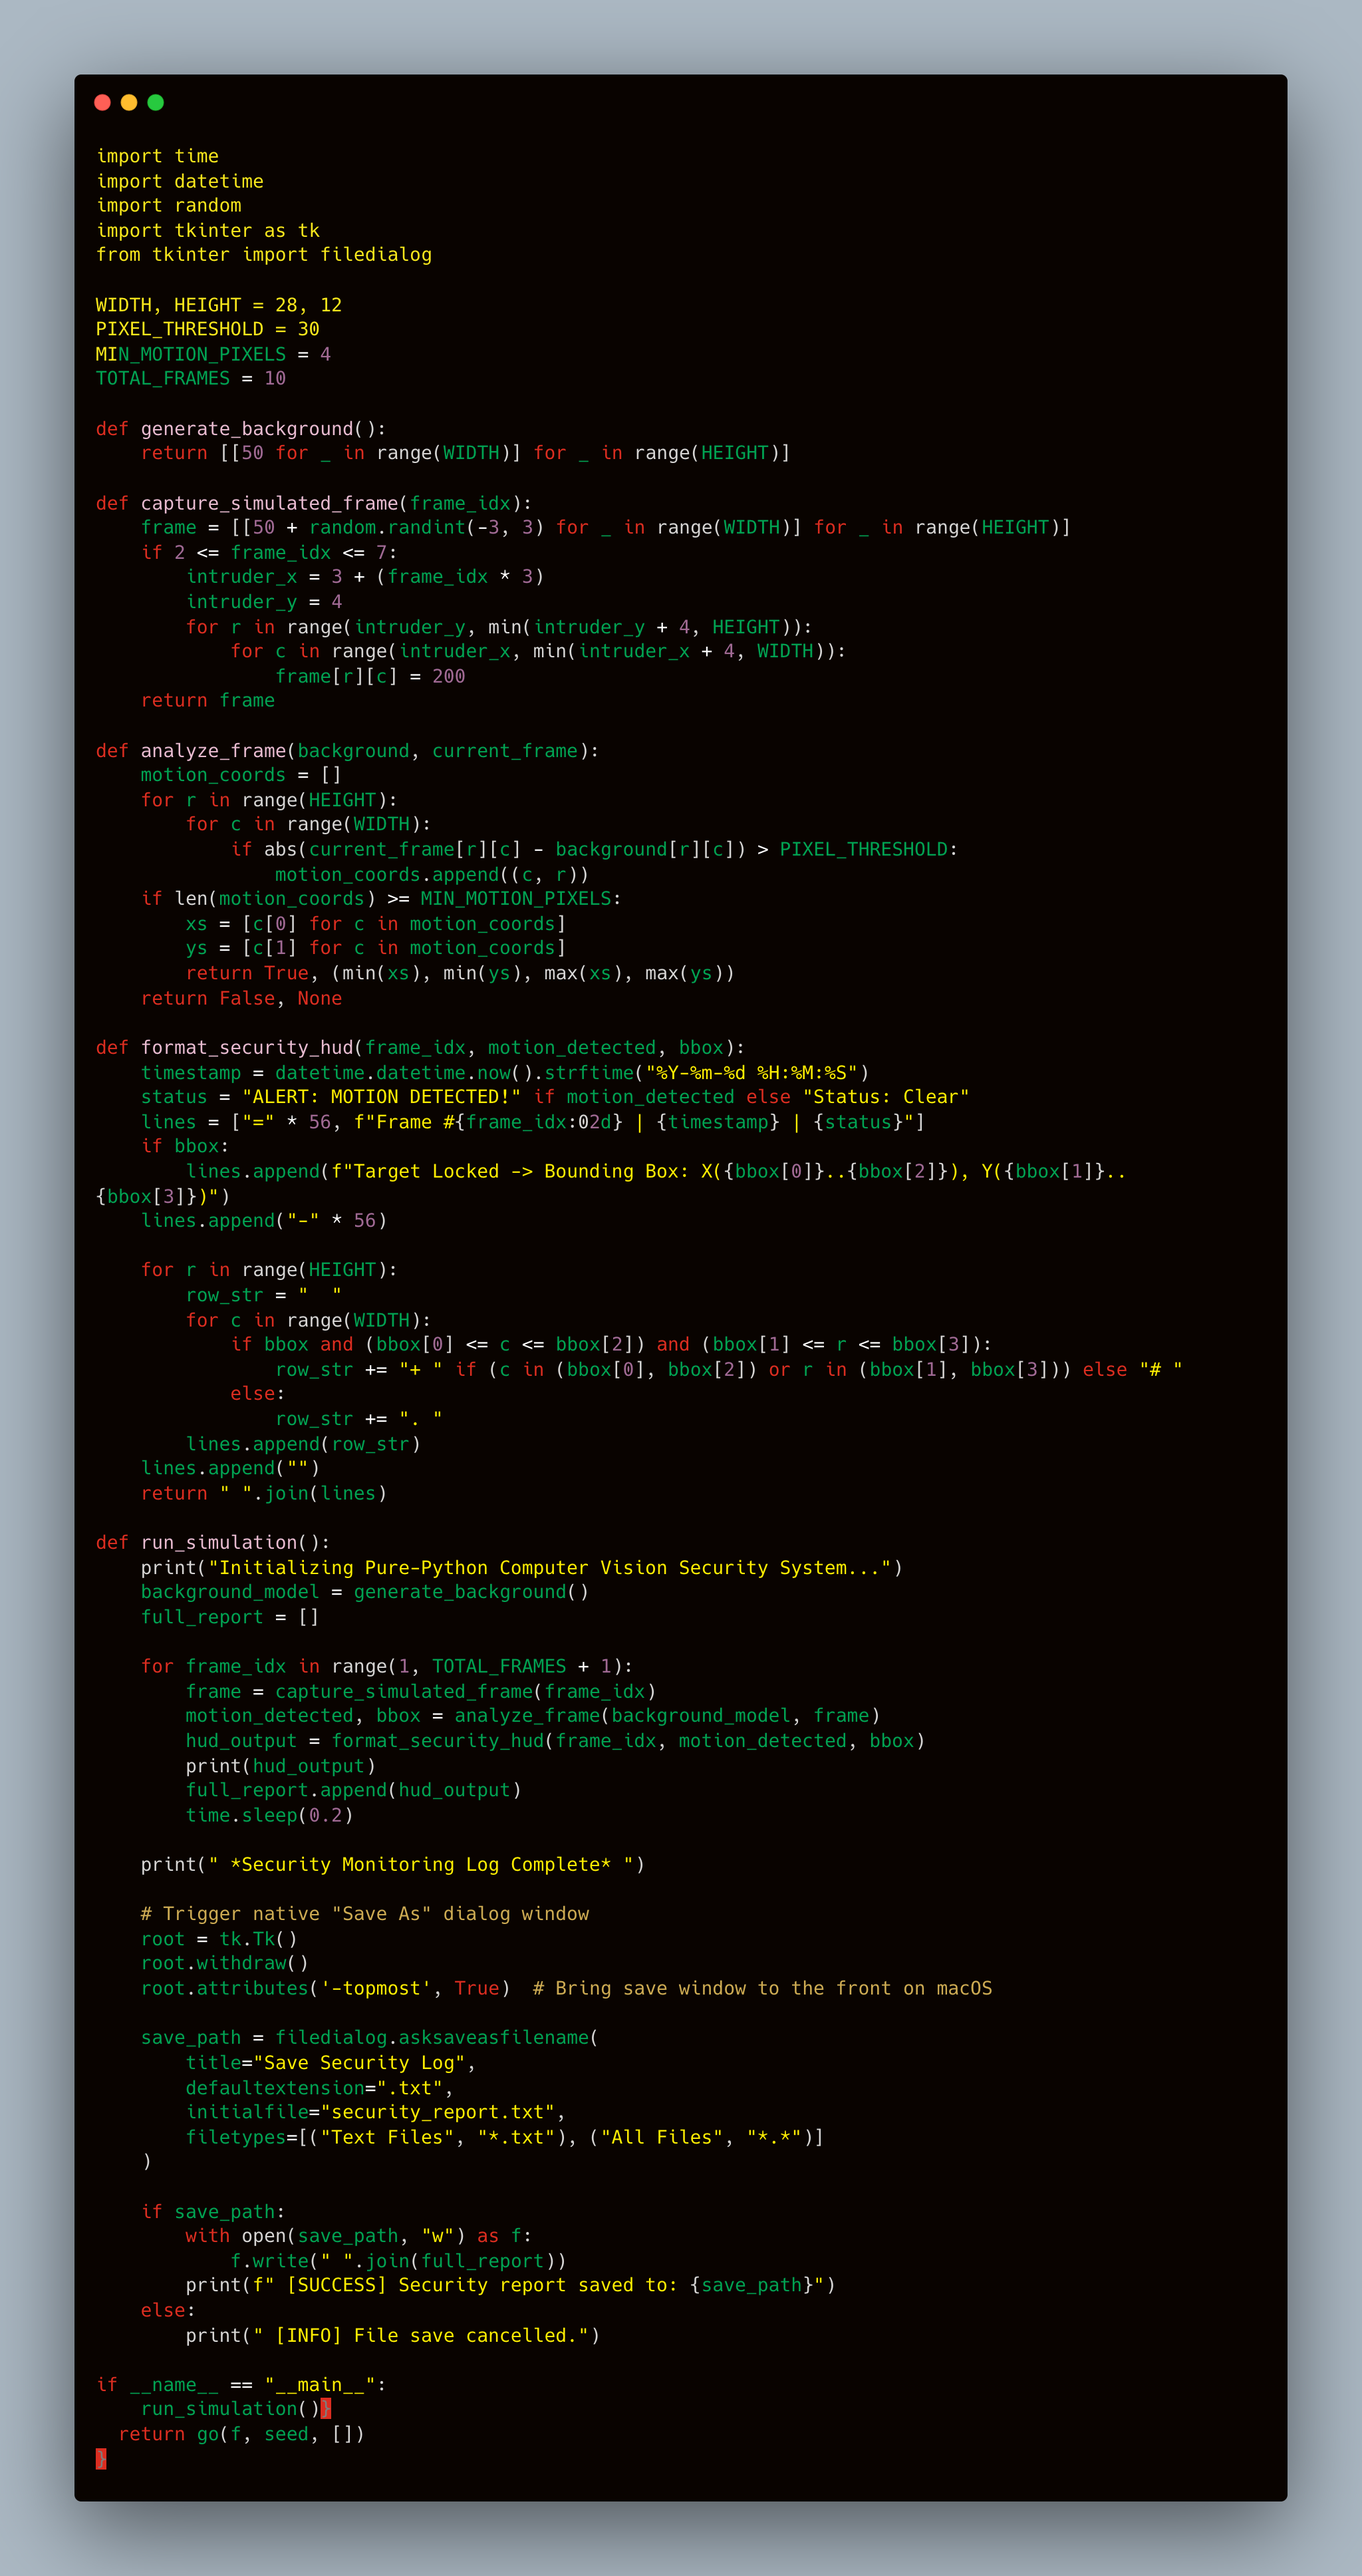
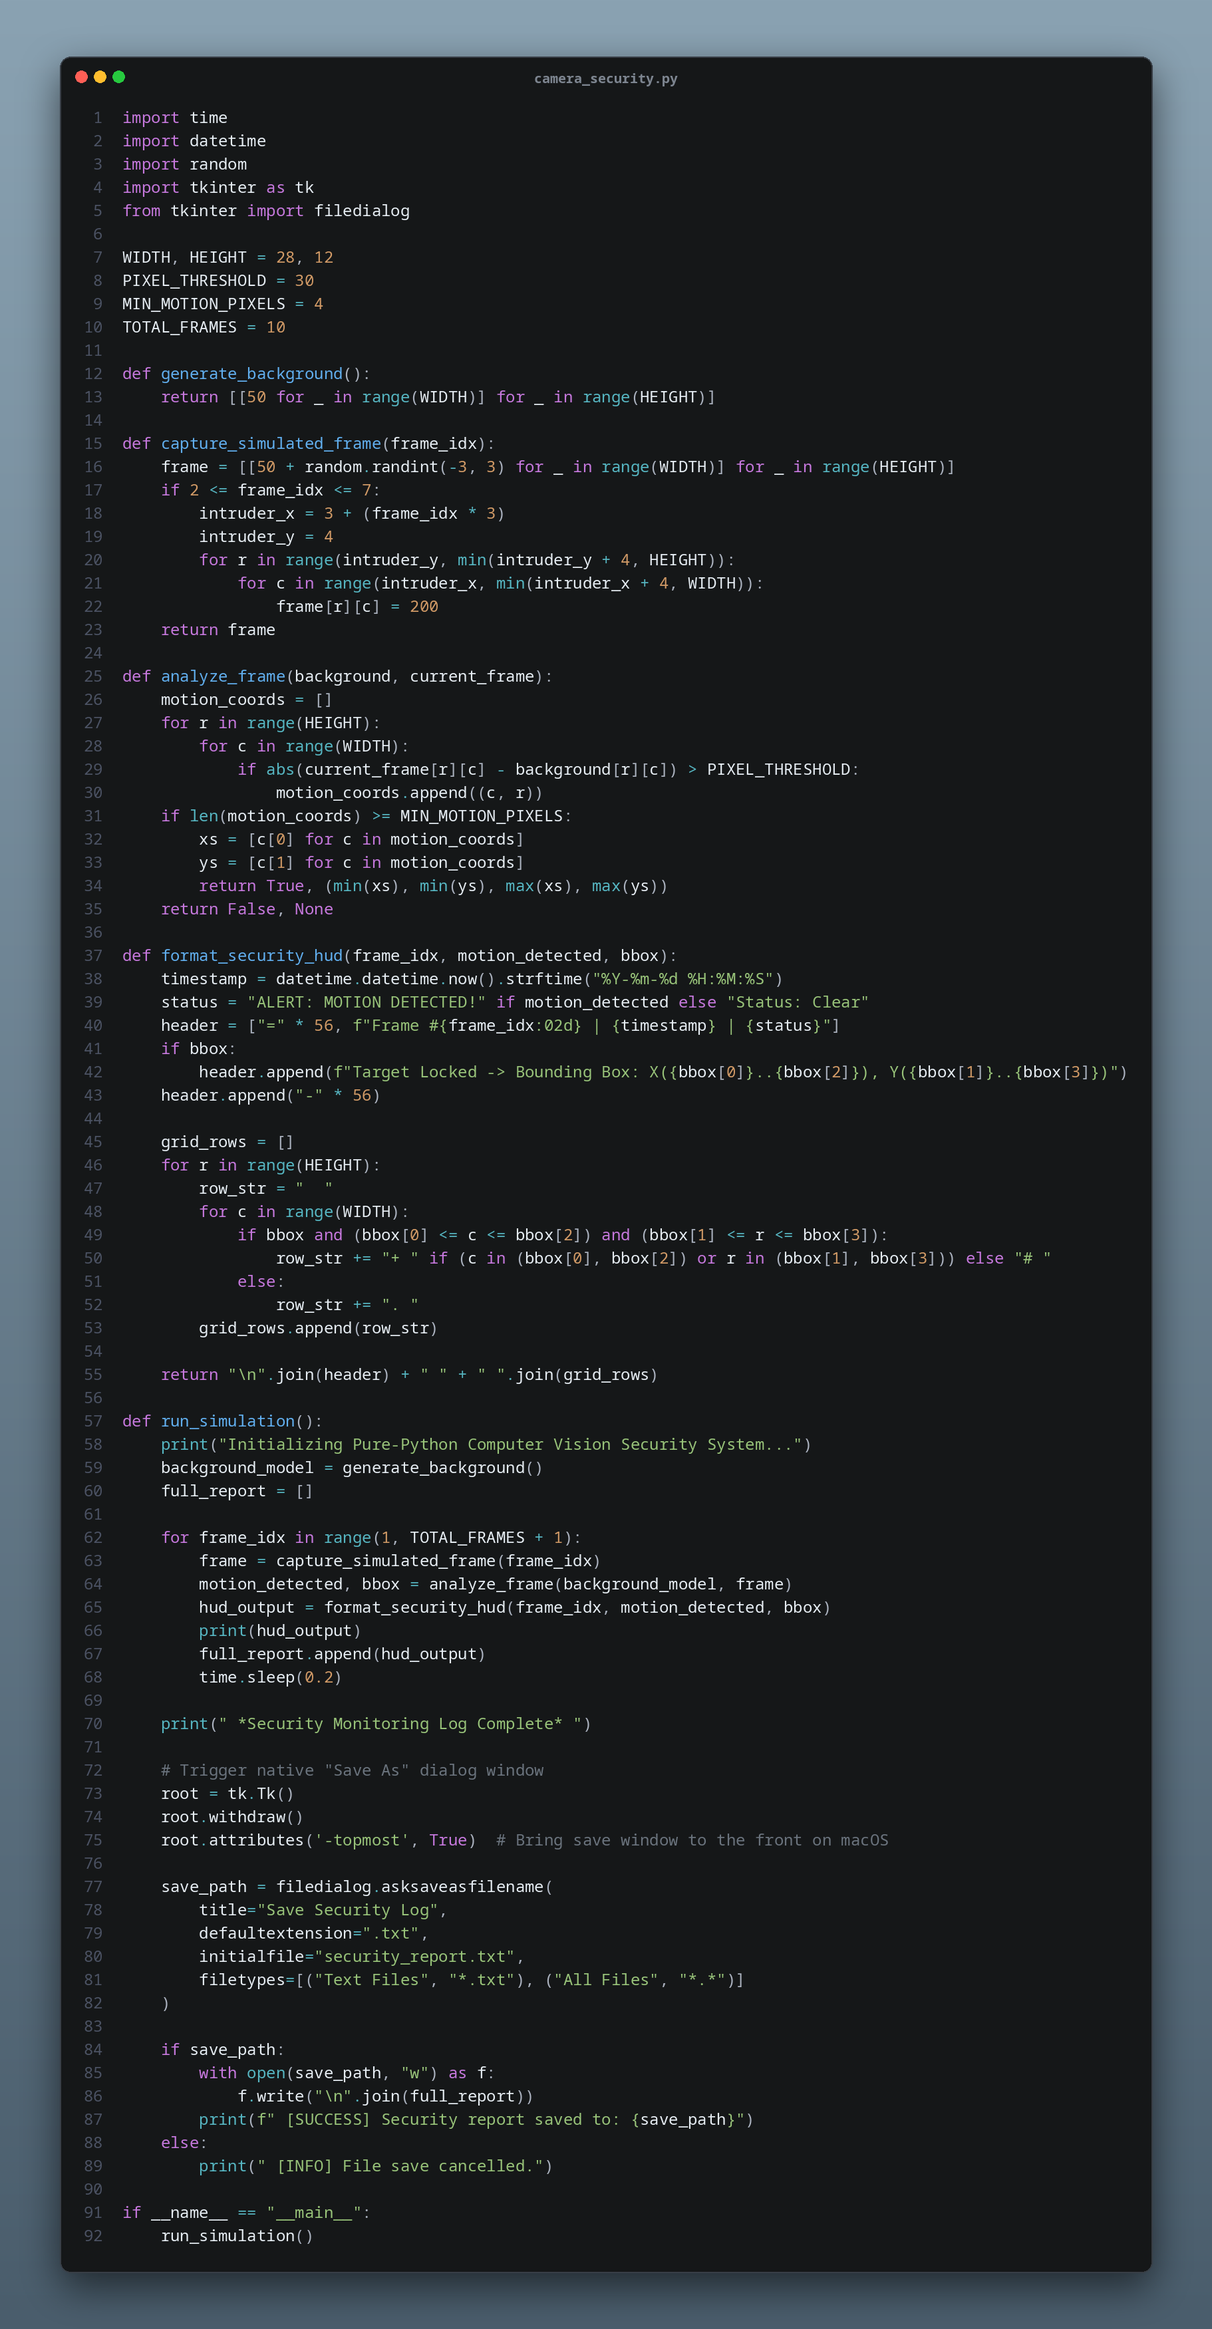
Fix HUD formatting and update report & carbon image
- Separated frame headers with newlines in format_security_hud()
- Updated file output to separate frames by newline
- Regenerated camera_security_report.txt and carbon.png

diff --git a/camera security/camera_security.py b/camera security/camera_security.py
@@ -37,11 +37,12 @@ def analyze_frame(background, current_frame):
 def format_security_hud(frame_idx, motion_detected, bbox):
     timestamp = datetime.datetime.now().strftime("%Y-%m-%d %H:%M:%S")
     status = "ALERT: MOTION DETECTED!" if motion_detected else "Status: Clear"
-    lines = ["=" * 56, f"Frame #{frame_idx:02d} | {timestamp} | {status}"]
+    header = ["=" * 56, f"Frame #{frame_idx:02d} | {timestamp} | {status}"]
     if bbox:
-        lines.append(f"Target Locked -> Bounding Box: X({bbox[0]}..{bbox[2]}), Y({bbox[1]}..{bbox[3]})")
-    lines.append("-" * 56)
-    
+        header.append(f"Target Locked -> Bounding Box: X({bbox[0]}..{bbox[2]}), Y({bbox[1]}..{bbox[3]})")
+    header.append("-" * 56)
+
+    grid_rows = []
     for r in range(HEIGHT):
         row_str = "  "
         for c in range(WIDTH):
@@ -49,15 +50,15 @@ def format_security_hud(frame_idx, motion_detected, bbox):
                 row_str += "+ " if (c in (bbox[0], bbox[2]) or r in (bbox[1], bbox[3])) else "# "
             else:
                 row_str += ". "
-        lines.append(row_str)
-    lines.append("")
-    return " ".join(lines)
+        grid_rows.append(row_str)
+
+    return "\n".join(header) + " " + " ".join(grid_rows)
 
 def run_simulation():
     print("Initializing Pure-Python Computer Vision Security System...")
     background_model = generate_background()
     full_report = []
-    
+
     for frame_idx in range(1, TOTAL_FRAMES + 1):
         frame = capture_simulated_frame(frame_idx)
         motion_detected, bbox = analyze_frame(background_model, frame)
@@ -65,24 +66,24 @@ def run_simulation():
         print(hud_output)
         full_report.append(hud_output)
         time.sleep(0.2)
-        
+
     print(" *Security Monitoring Log Complete* ")
-    
+
     # Trigger native "Save As" dialog window
     root = tk.Tk()
     root.withdraw()
     root.attributes('-topmost', True)  # Bring save window to the front on macOS
-    
+
     save_path = filedialog.asksaveasfilename(
         title="Save Security Log",
         defaultextension=".txt",
         initialfile="security_report.txt",
         filetypes=[("Text Files", "*.txt"), ("All Files", "*.*")]
     )
-    
+
     if save_path:
         with open(save_path, "w") as f:
-            f.write(" ".join(full_report))
+            f.write("\n".join(full_report))
         print(f" [SUCCESS] Security report saved to: {save_path}")
     else:
         print(" [INFO] File save cancelled.")
